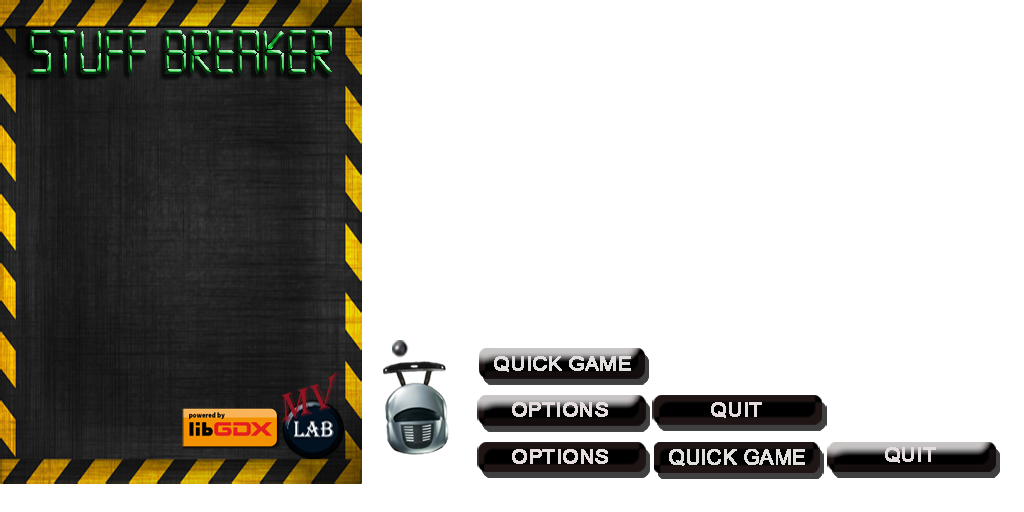
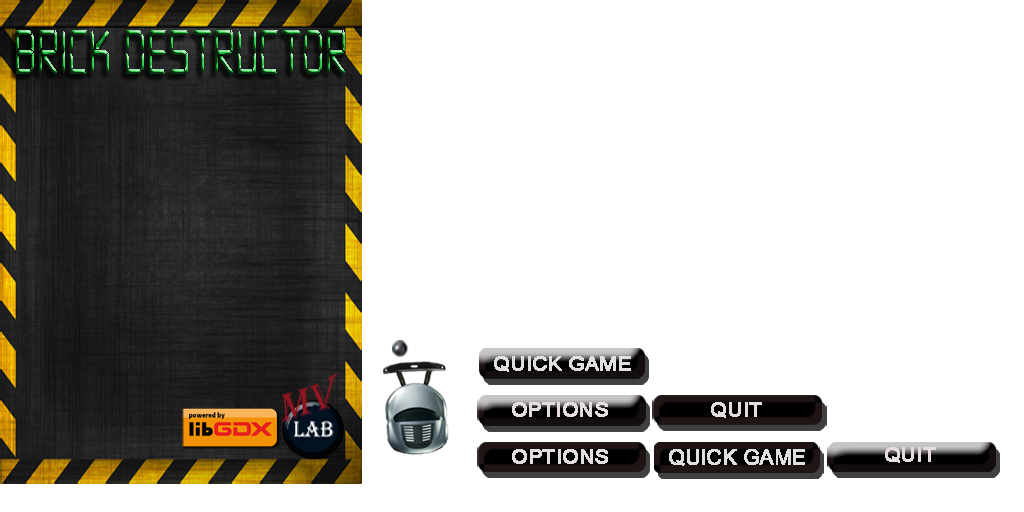
0.1.2.0

Changed region(s): [[0.0, 0.0312, 0.3438, 0.1562]]

diff --git a/core/src/com/MVlab/BrickBreaker/screens/MenuScreen.java b/core/src/com/MVlab/BrickBreaker/screens/MenuScreen.java
@@ -4,13 +4,16 @@ import com.MVlab.BrickBreaker.utils.Consts;
 import com.MVlab.BrickBreaker.utils.GamePreferences;
 import com.badlogic.gdx.Game;
 import com.badlogic.gdx.Gdx;
+import com.badlogic.gdx.graphics.Color;
 import com.badlogic.gdx.graphics.GL20;
 import com.badlogic.gdx.graphics.g2d.TextureAtlas;
 import com.badlogic.gdx.scenes.scene2d.Actor;
 import com.badlogic.gdx.scenes.scene2d.Stage;
+import com.badlogic.gdx.scenes.scene2d.Touchable;
 import com.badlogic.gdx.scenes.scene2d.ui.Button;
 import com.badlogic.gdx.scenes.scene2d.ui.CheckBox;
 import com.badlogic.gdx.scenes.scene2d.ui.Image;
+import com.badlogic.gdx.scenes.scene2d.ui.Label;
 import com.badlogic.gdx.scenes.scene2d.ui.SelectBox;
 import com.badlogic.gdx.scenes.scene2d.ui.Skin;
 import com.badlogic.gdx.scenes.scene2d.ui.Slider;
@@ -22,6 +25,10 @@ import com.badlogic.gdx.scenes.scene2d.utils.ChangeListener;
 import com.badlogic.gdx.utils.viewport.StretchViewport;
 import com.badlogic.gdx.utils.viewport.Viewport;
 
+import static com.badlogic.gdx.scenes.scene2d.actions.Actions.alpha;
+import static com.badlogic.gdx.scenes.scene2d.actions.Actions.sequence;
+import static com.badlogic.gdx.scenes.scene2d.actions.Actions.touchable;
+
 /**
  * Created by MV on 18.05.2015.
  */
@@ -29,15 +36,15 @@ public class MenuScreen extends AbstractGameScreen {
     private static final String TAG = MenuScreen.class.getName();
     private Stage stage;
     private Skin skinBrickBreaker;
-    private Skin OptionsSkin;
+    private Skin optionsSkin;
 
     //menu
     private Image imgBackground;
     private Image imgRacket;
     private Button btnMenuQuickPlay;
     private Button btnMenuQuit;
-    private Button btnOptions;
-    private Button btnMenuPlay;
+//    private Button btnOptions;
+//    private Button btnMenuPlay;
     private Button btnMenuOptions;
 
     //options
@@ -63,11 +70,13 @@ public class MenuScreen extends AbstractGameScreen {
 
     public void rebuiltStage() {
         skinBrickBreaker = new Skin(Gdx.files.internal("data/GUI/game_ui.json"), new TextureAtlas("data/GUI/BrickBreackerGUI.pack"));
+        optionsSkin = new Skin(Gdx.files.internal("data/GUI/uiskin.json"), new TextureAtlas("data/GUI/uiskin.atlas"));
 
         //build layers
         Table layerBackground = buildBackgroundLayer();
         Table layerObjects = buildObjectsLayer();
         Table layerControls = buildControlsLayer();
+        Table layerOptionsWindow = buildOptionsWindowLayer();
 
         // assemble stage for menu screen
         stage.clear();
@@ -78,6 +87,7 @@ public class MenuScreen extends AbstractGameScreen {
         stack.add(layerBackground);
         stack.add(layerObjects);
         stack.add(layerControls);
+        stack.addActor(layerOptionsWindow);
     }
 
     private Table buildBackgroundLayer() {
@@ -112,12 +122,12 @@ public class MenuScreen extends AbstractGameScreen {
         layer.row();
 
         //options
-        btnOptions = new Button(skinBrickBreaker, "Options");
-        layer.add(btnOptions);
-        btnOptions.addListener(new ChangeListener() {
+        btnMenuOptions = new Button(skinBrickBreaker, "Options");
+        layer.add(btnMenuOptions);
+        btnMenuOptions.addListener(new ChangeListener() {
             @Override
             public void changed(ChangeEvent event, Actor actor) {
-                game.setScreen(new GameScreen(game));
+                onOptionsClicked();
             }
         });
         layer.row();
@@ -135,6 +145,121 @@ public class MenuScreen extends AbstractGameScreen {
         return layer;
     }
 
+    //options+++
+    private void onOptionsClicked() {
+        loadSettings();
+        btnMenuQuickPlay.setVisible(false);
+        btnMenuOptions.setVisible(false);
+        btnMenuQuit.setVisible(false);
+        winOptions.setVisible(true);
+    }
+
+    private Table buildOptionsWindowLayer () {
+        winOptions = new Window("Options", optionsSkin);
+        winOptions.pack();
+
+        // + Audio Settings: Sound/Music CheckBox and Volume Slider
+        winOptions.add(buildOptWinAudioSettings()).row();
+        // + Character Skin: Selection Box (White, Gray, Brown)
+        //  winOptions.add(buildOptWinSkinSelection()).row();
+        // + Debug: Show FPS Counter
+        winOptions.add(buildOptWinDebug()).row();
+        // + Separator and Buttons (Save, Cancel)
+        winOptions.add(buildOptWinButtons()).pad(10, 0, 10, 0);
+
+        // Make options window slightly transparent
+        winOptions.setColor(1, 1, 1, 0.8f);
+        // Hide options window by default
+        winOptions.setVisible(false);
+        if (debugEnabled) winOptions.debug();
+        // Let TableLayout recalculate widget sizes and positions
+        winOptions.pack();
+        // Move options window to bottom right corner
+        //winOptions.setPosition(Consts.VIEWPORT_GUI_WIDTH - winOptions.getWidth() - 50, 50);
+        winOptions.setResizable(true);
+
+        return winOptions;
+    }
+
+    private Table buildOptWinAudioSettings () {
+        Table tbl = new Table();
+        // + Title: "Audio"
+        tbl.pad(10, 10, 0, 10);
+        tbl.add(new Label("Audio", optionsSkin, "default-font", Color.ORANGE)).colspan(3);
+        tbl.row();
+        tbl.columnDefaults(0).padRight(10);
+        tbl.columnDefaults(1).padRight(10);
+        // + Checkbox, "Sound" label, sound volume slider
+        chkSound = new CheckBox("", optionsSkin);
+        tbl.add(chkSound);
+        tbl.add(new Label("Sound", optionsSkin));
+        sldSound = new Slider(0.0f, 1.0f, 0.1f, false, optionsSkin);
+        tbl.add(sldSound);
+        tbl.row();
+        // + Checkbox, "Music" label, music volume slider
+        chkMusic = new CheckBox("", optionsSkin);
+        tbl.add(chkMusic);
+        tbl.add(new Label("Music", optionsSkin));
+        sldMusic = new Slider(0.0f, 1.0f, 0.1f, false, optionsSkin);
+        tbl.add(sldMusic);
+        tbl.row();
+        return tbl;
+    }
+
+    private Table buildOptWinDebug () {
+        Table tbl = new Table();
+        // + Title: "Debug"
+        tbl.pad(10, 10, 0, 10);
+        tbl.add(new Label("Debug", optionsSkin, "default-font", Color.RED)).colspan(3);
+        tbl.row();
+        tbl.columnDefaults(0).padRight(10);
+        tbl.columnDefaults(1).padRight(10);
+        // + Checkbox, "Show FPS Counter" label
+        chkShowFpsCounter = new CheckBox("", optionsSkin);
+        tbl.add(new Label("Show FPS Counter", optionsSkin));
+        tbl.add(chkShowFpsCounter);
+        tbl.row();
+
+        return tbl;
+    }
+
+    private Table buildOptWinButtons () {
+        Table tbl = new Table();
+        // + Separator
+        Label lbl = null;
+        lbl = new Label("", optionsSkin);
+        lbl.setColor(0.75f, 0.75f, 0.75f, 1);
+        lbl.setStyle(new Label.LabelStyle(lbl.getStyle()));
+        lbl.getStyle().background = optionsSkin.newDrawable("white");
+        tbl.add(lbl).colspan(2).height(1).width(220).pad(0, 0, 0, 1);
+        tbl.row();
+        lbl = new Label("", optionsSkin);
+        lbl.setColor(0.5f, 0.5f, 0.5f, 1);
+        lbl.setStyle(new Label.LabelStyle(lbl.getStyle()));
+        lbl.getStyle().background = optionsSkin.newDrawable("white");
+        tbl.add(lbl).colspan(2).height(1).width(220).pad(0, 1, 5, 0);
+        tbl.row();
+        // + Save Button with event handler
+        btnWinOptSave = new TextButton("Save", optionsSkin);
+        tbl.add(btnWinOptSave).padRight(30);
+        btnWinOptSave.addListener(new ChangeListener() {
+            @Override
+            public void changed (ChangeEvent event, Actor actor) {
+                onSaveClicked();
+            }
+        });
+        // + Cancel Button with event handler
+        btnWinOptCancel = new TextButton("Cancel", optionsSkin);
+        tbl.add(btnWinOptCancel);
+        btnWinOptCancel.addListener(new ChangeListener() {
+            @Override
+            public void changed (ChangeEvent event, Actor actor) {
+                onCancelClicked();
+            }
+        });
+        return tbl;
+    }
+
     private void loadSettings() {
         GamePreferences prefs = GamePreferences.instance;
         prefs.load();
@@ -142,6 +267,7 @@ public class MenuScreen extends AbstractGameScreen {
         sldSound.setValue(prefs.volSound);
         chkMusic.setChecked(prefs.music);
         sldMusic.setValue(prefs.volMusic);
+
         //selCharSkin.setSelection(prefs.charSkin);
         //onCharSkinSelected(prefs.charSkin);
         chkShowFpsCounter.setChecked(prefs.showFpsCounter);
@@ -167,11 +293,21 @@ public class MenuScreen extends AbstractGameScreen {
         saveSettings();
         onCancelClicked();
     }
+
     private void onCancelClicked() {
-        btnMenuPlay.setVisible(true);
+        btnMenuQuickPlay.setVisible(true);
         btnMenuOptions.setVisible(true);
+        btnMenuQuit.setVisible(true);
         winOptions.setVisible(false);
     }
+
+    private void showOptionsWindow (boolean visible, boolean animated) {
+        float alphaTo = visible ? 0.8f : 0.0f;
+        float duration = animated ? 1.0f : 0.0f;
+        Touchable touchEnabled = visible ? Touchable.enabled : Touchable.disabled;
+        winOptions.addAction(sequence(touchable(touchEnabled), alpha(alphaTo, duration)));
+    }
+    //options---
 
     @Override
     public void render(float delta) {
@@ -207,6 +343,7 @@ public class MenuScreen extends AbstractGameScreen {
     public void hide() {
         stage.dispose();
         skinBrickBreaker.dispose();
+        optionsSkin.dispose();
     }
 
     @Override

diff --git a/core/src/com/MVlab/BrickBreaker/gameworld/GameRenderer.java b/core/src/com/MVlab/BrickBreaker/gameworld/GameRenderer.java
@@ -10,6 +10,7 @@ import com.MVlab.BrickBreaker.gameObjects.Brick;
 import com.MVlab.BrickBreaker.gameObjects.LeftBorder;
 import com.MVlab.BrickBreaker.utils.Consts;
 import com.MVlab.BrickBreaker.utils.GameHelpers;
+import com.MVlab.BrickBreaker.utils.GamePreferences;
 import com.badlogic.gdx.Application;
 import com.badlogic.gdx.Gdx;
 import com.badlogic.gdx.graphics.GL20;
@@ -243,19 +244,21 @@ public class GameRenderer  implements Disposable {
         SpriteBatch guiBatch = new SpriteBatch();
         guiBatch.setProjectionMatrix(guiCam.combined);
         //FPS
-        guiBatch.begin();
-        int fps = Gdx.graphics.getFramesPerSecond();
-        BitmapFont fpsFont = Assets.instance.fonts.defaultSmall;
-        if (fps >= 45)
-            fpsFont.setColor(0, 1, 0, 1);
-        else if (fps >= 30)
-            fpsFont.setColor(1, 1, 0, 1);
-        else
-            fpsFont.setColor(1, 0, 0, 1);
+        if (GamePreferences.instance.showFpsCounter) {
+            guiBatch.begin();
+            int fps = Gdx.graphics.getFramesPerSecond();
+            BitmapFont fpsFont = Assets.instance.fonts.defaultSmall;
+            if (fps >= 45)
+                fpsFont.setColor(0, 1, 0, 1);
+            else if (fps >= 30)
+                fpsFont.setColor(1, 1, 0, 1);
+            else
+                fpsFont.setColor(1, 0, 0, 1);
 
-        // fpsFont.draw(guiBatch, "FPS: " + fps, rightBorder.getX() + leftBorder.getWidth() + 10, 10);
-        fpsFont.draw(guiBatch, "FPS: " + fps, guiCam.viewportWidth - 40, 10);
-        guiBatch.end();
+            // fpsFont.draw(guiBatch, "FPS: " + fps, rightBorder.getX() + leftBorder.getWidth() + 10, 10);
+            fpsFont.draw(guiBatch, "FPS: " + fps, guiCam.viewportWidth - 40, 10);
+            guiBatch.end();
+        }
         //
 
         //score

diff --git a/core/src/com/MVlab/BrickBreaker/utils/GamePreferences.java b/core/src/com/MVlab/BrickBreaker/utils/GamePreferences.java
@@ -22,7 +22,7 @@ public class GamePreferences {
     private Preferences prefs;
 
     private GamePreferences() {
-        prefs = Gdx.app.getPreferences("options.prefs");
+        prefs = Gdx.app.getPreferences(Consts.GAME_OPTIONS);
     }
 
     public void load () {
@@ -30,7 +30,7 @@ public class GamePreferences {
         music = prefs.getBoolean("music", true);
         volSound = MathUtils.clamp(prefs.getFloat("volSound", 0.5f), 0f, 1f);
         volMusic = MathUtils.clamp(prefs.getFloat("volMusic", 0.5f), 0f, 1f);
-        charSkin = MathUtils.clamp(prefs.getInteger("charSkin", 0), 0, 2);
+        //charSkin = MathUtils.clamp(prefs.getInteger("charSkin", 0), 0, 2);
         showFpsCounter = prefs.getBoolean("showFpsCounter", false);
     }
 
@@ -39,7 +39,7 @@ public class GamePreferences {
         prefs.putBoolean("music", music);
         prefs.putFloat("volSound", volSound);
         prefs.putFloat("volMusic", volMusic);
-        prefs.putFloat("charSkin", charSkin);
+        //prefs.putFloat("charSkin", charSkin);
         prefs.putBoolean("showFpsCounter", showFpsCounter);
         prefs.flush();
     }

diff --git a/core/src/com/MVlab/BrickBreaker/screens/GameScreen.java b/core/src/com/MVlab/BrickBreaker/screens/GameScreen.java
@@ -3,6 +3,7 @@ package com.MVlab.BrickBreaker.screens;
 import com.MVlab.BrickBreaker.Assets;
 import com.MVlab.BrickBreaker.gameWorld.GameRenderer;
 import com.MVlab.BrickBreaker.gameWorld.GameWorld;
+import com.MVlab.BrickBreaker.utils.GamePreferences;
 import com.MVlab.BrickBreaker.utils.InputHandler;
 import com.badlogic.gdx.Game;
 import com.badlogic.gdx.Gdx;
@@ -24,6 +25,7 @@ public class GameScreen extends AbstractGameScreen {
 
     @Override
     public void show() {
+        GamePreferences.instance.load();
         world = new GameWorld(game);
         renderer = new GameRenderer(world);
         previousGameState = GameWorld.gameState.start;

diff --git a/desktop/src/com/MVlab/BrickBreaker/desktop/DesktopLauncher.java b/desktop/src/com/MVlab/BrickBreaker/desktop/DesktopLauncher.java
@@ -7,7 +7,7 @@ import com.MVlab.BrickBreaker.BrickBreakerCore;
 public class DesktopLauncher {
 	public static void main (String[] arg) {
 		LwjglApplicationConfiguration config = new LwjglApplicationConfiguration();
-        config.title = "Stuff breaker";
+        config.title = "Brick Destructor";
 //        config.width = 272;
 //        config.height = 408;
         config.width = 300;

diff --git a/core/src/com/MVlab/BrickBreaker/utils/Consts.java b/core/src/com/MVlab/BrickBreaker/utils/Consts.java
@@ -23,4 +23,10 @@ public class Consts {
     public static int MID_SCREEN_DURATION = 1; // 1 seconds till screen changes
 
     public static final String BASIC_TEXTURES_ATLAS_OBJECT = "data/textures/BrickBreackerTextures.pack";
+
+    //Game preferences
+    public static final String GAME_OPTIONS = "options.prefs";
+
+
+
 }
